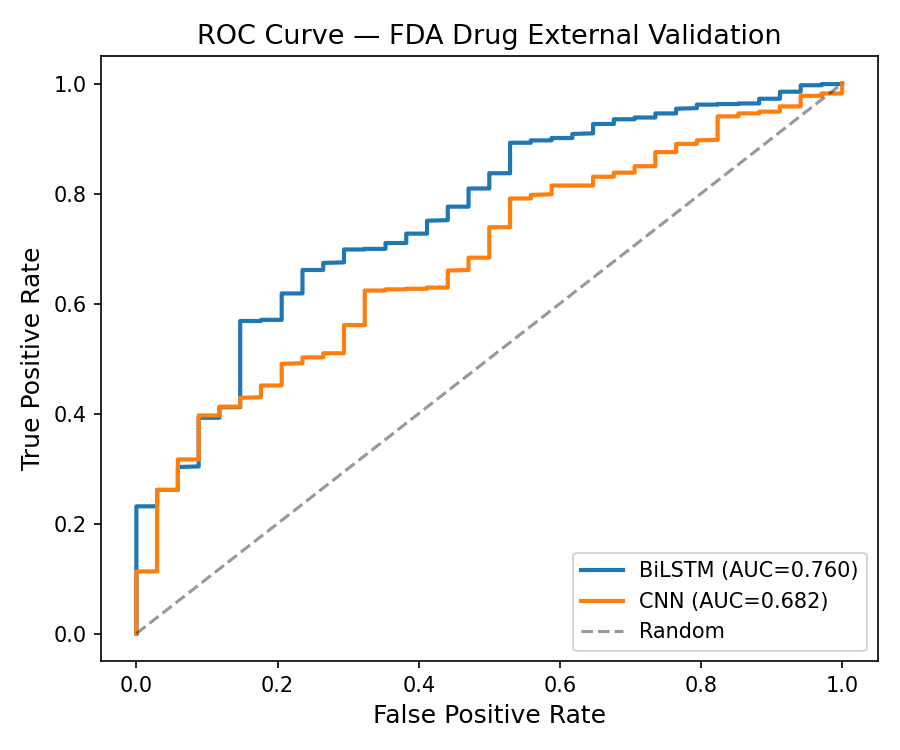
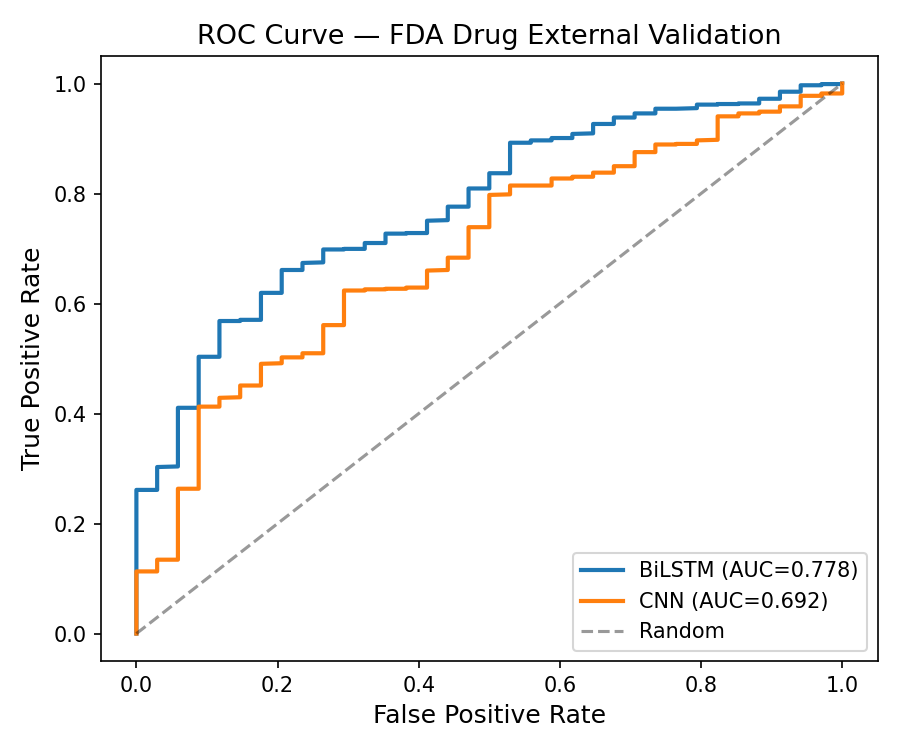
fix: Correct SMILES for Imatinib and Letrozole in curated validation pairs
Imatinib: previous SMILES had an aminothiazole scaffold (wrong drug).
  Fixed to correct pyrimidine-pyridine scaffold (PubChem CID 5291).
  InChIKey: KTUFNOKKBVMGRW-UHFFFAOYSA-N

Letrozole: previous SMILES was Fluconazole (antifungal, CID 3366).
  Fixed to correct bis-nitrile triazole structure (PubChem CID 3902).
  InChIKey: XVLPQMQKDUQKNV-UHFFFAOYSA-N

Re-ran validation with corrected SMILES:
  BiLSTM: AUROC 0.7600 → 0.7784
  CNN:    AUROC 0.6818 → 0.6921

Changed region(s): [[0.1244, 0.1227, 0.7467, 0.7667], [0.9022, 0.736, 0.9333, 0.7667], [0.8711, 0.7973, 0.9022, 0.828]]

diff --git a/fda_validation/run_fda_validation.py b/fda_validation/run_fda_validation.py
@@ -43,7 +43,7 @@ THRESHOLDS = {"BiLSTM": 0.1511, "CNN": 0.3100}
 CURATED_POSITIVES = [
     # (drug_name, SMILES, UniProt, note)
     ("Imatinib",
-     "Cc1ccc(NC(=O)c2ccc(CN3CCN(C)CC3)cc2)cc1-c1ccc(-c2csc(N)n2)cc1",
+     "Cc1ccc(NC(=O)c2ccc(CN3CCN(C)CC3)cc2)cc1Nc1nccc(-c2cccnc2)n1",
      "P00519", "BCR-ABL1 — primary target, Ki~1nM"),
     ("Erlotinib",
      "C#Cc1cccc(Nc2ncnc3cc(OCCOC)c(OCCOC)cc23)c1",
@@ -85,7 +85,7 @@ CURATED_POSITIVES = [
      "N#CC(C)(C)c1cc(Cc2cc(CC(C)(C#N)C#N)cc(C)c2)cc(C)c1",
      "P11511", "CYP19A1/Aromatase — breast cancer"),
     ("Letrozole",
-     "OC(Cn1cncn1)(Cn1cncn1)c1ccc(F)cc1",
+     "N#Cc1ccc(C(Cn2cncn2)c2ccc(C#N)cc2)cc1",
      "P11511", "CYP19A1/Aromatase — breast cancer"),
 ]
 
@@ -93,10 +93,10 @@ CURATED_NEGATIVES = [
     # (drug_name, SMILES, UniProt, note)
     # Each drug paired with a protein that is NOT its target
     ("Imatinib",
-     "Cc1ccc(NC(=O)c2ccc(CN3CCN(C)CC3)cc2)cc1-c1ccc(-c2csc(N)n2)cc1",
+     "Cc1ccc(NC(=O)c2ccc(CN3CCN(C)CC3)cc2)cc1Nc1nccc(-c2cccnc2)n1",
      "P03372", "Imatinib vs ESR1 — unrelated target"),
     ("Imatinib",
-     "Cc1ccc(NC(=O)c2ccc(CN3CCN(C)CC3)cc2)cc1-c1ccc(-c2csc(N)n2)cc1",
+     "Cc1ccc(NC(=O)c2ccc(CN3CCN(C)CC3)cc2)cc1Nc1nccc(-c2cccnc2)n1",
      "P00374", "Imatinib vs DHFR — unrelated target"),
     ("Tamoxifen",
      "CCC(=C(c1ccccc1)c1ccc(OCCN(C)C)cc1)c1ccccc1",
@@ -132,7 +132,7 @@ CURATED_NEGATIVES = [
      "CC(C)Cc1ccc(cc1)[C@@H](C)C(=O)O",
      "P00519", "Ibuprofen vs BCR-ABL — unrelated"),
     ("Letrozole",
-     "OC(Cn1cncn1)(Cn1cncn1)c1ccc(F)cc1",
+     "N#Cc1ccc(C(Cn2cncn2)c2ccc(C#N)cc2)cc1",
      "P00533", "Letrozole vs EGFR — unrelated"),
     ("Anastrozole",
      "N#CC(C)(C)c1cc(Cc2cc(CC(C)(C#N)C#N)cc(C)c2)cc(C)c1",
